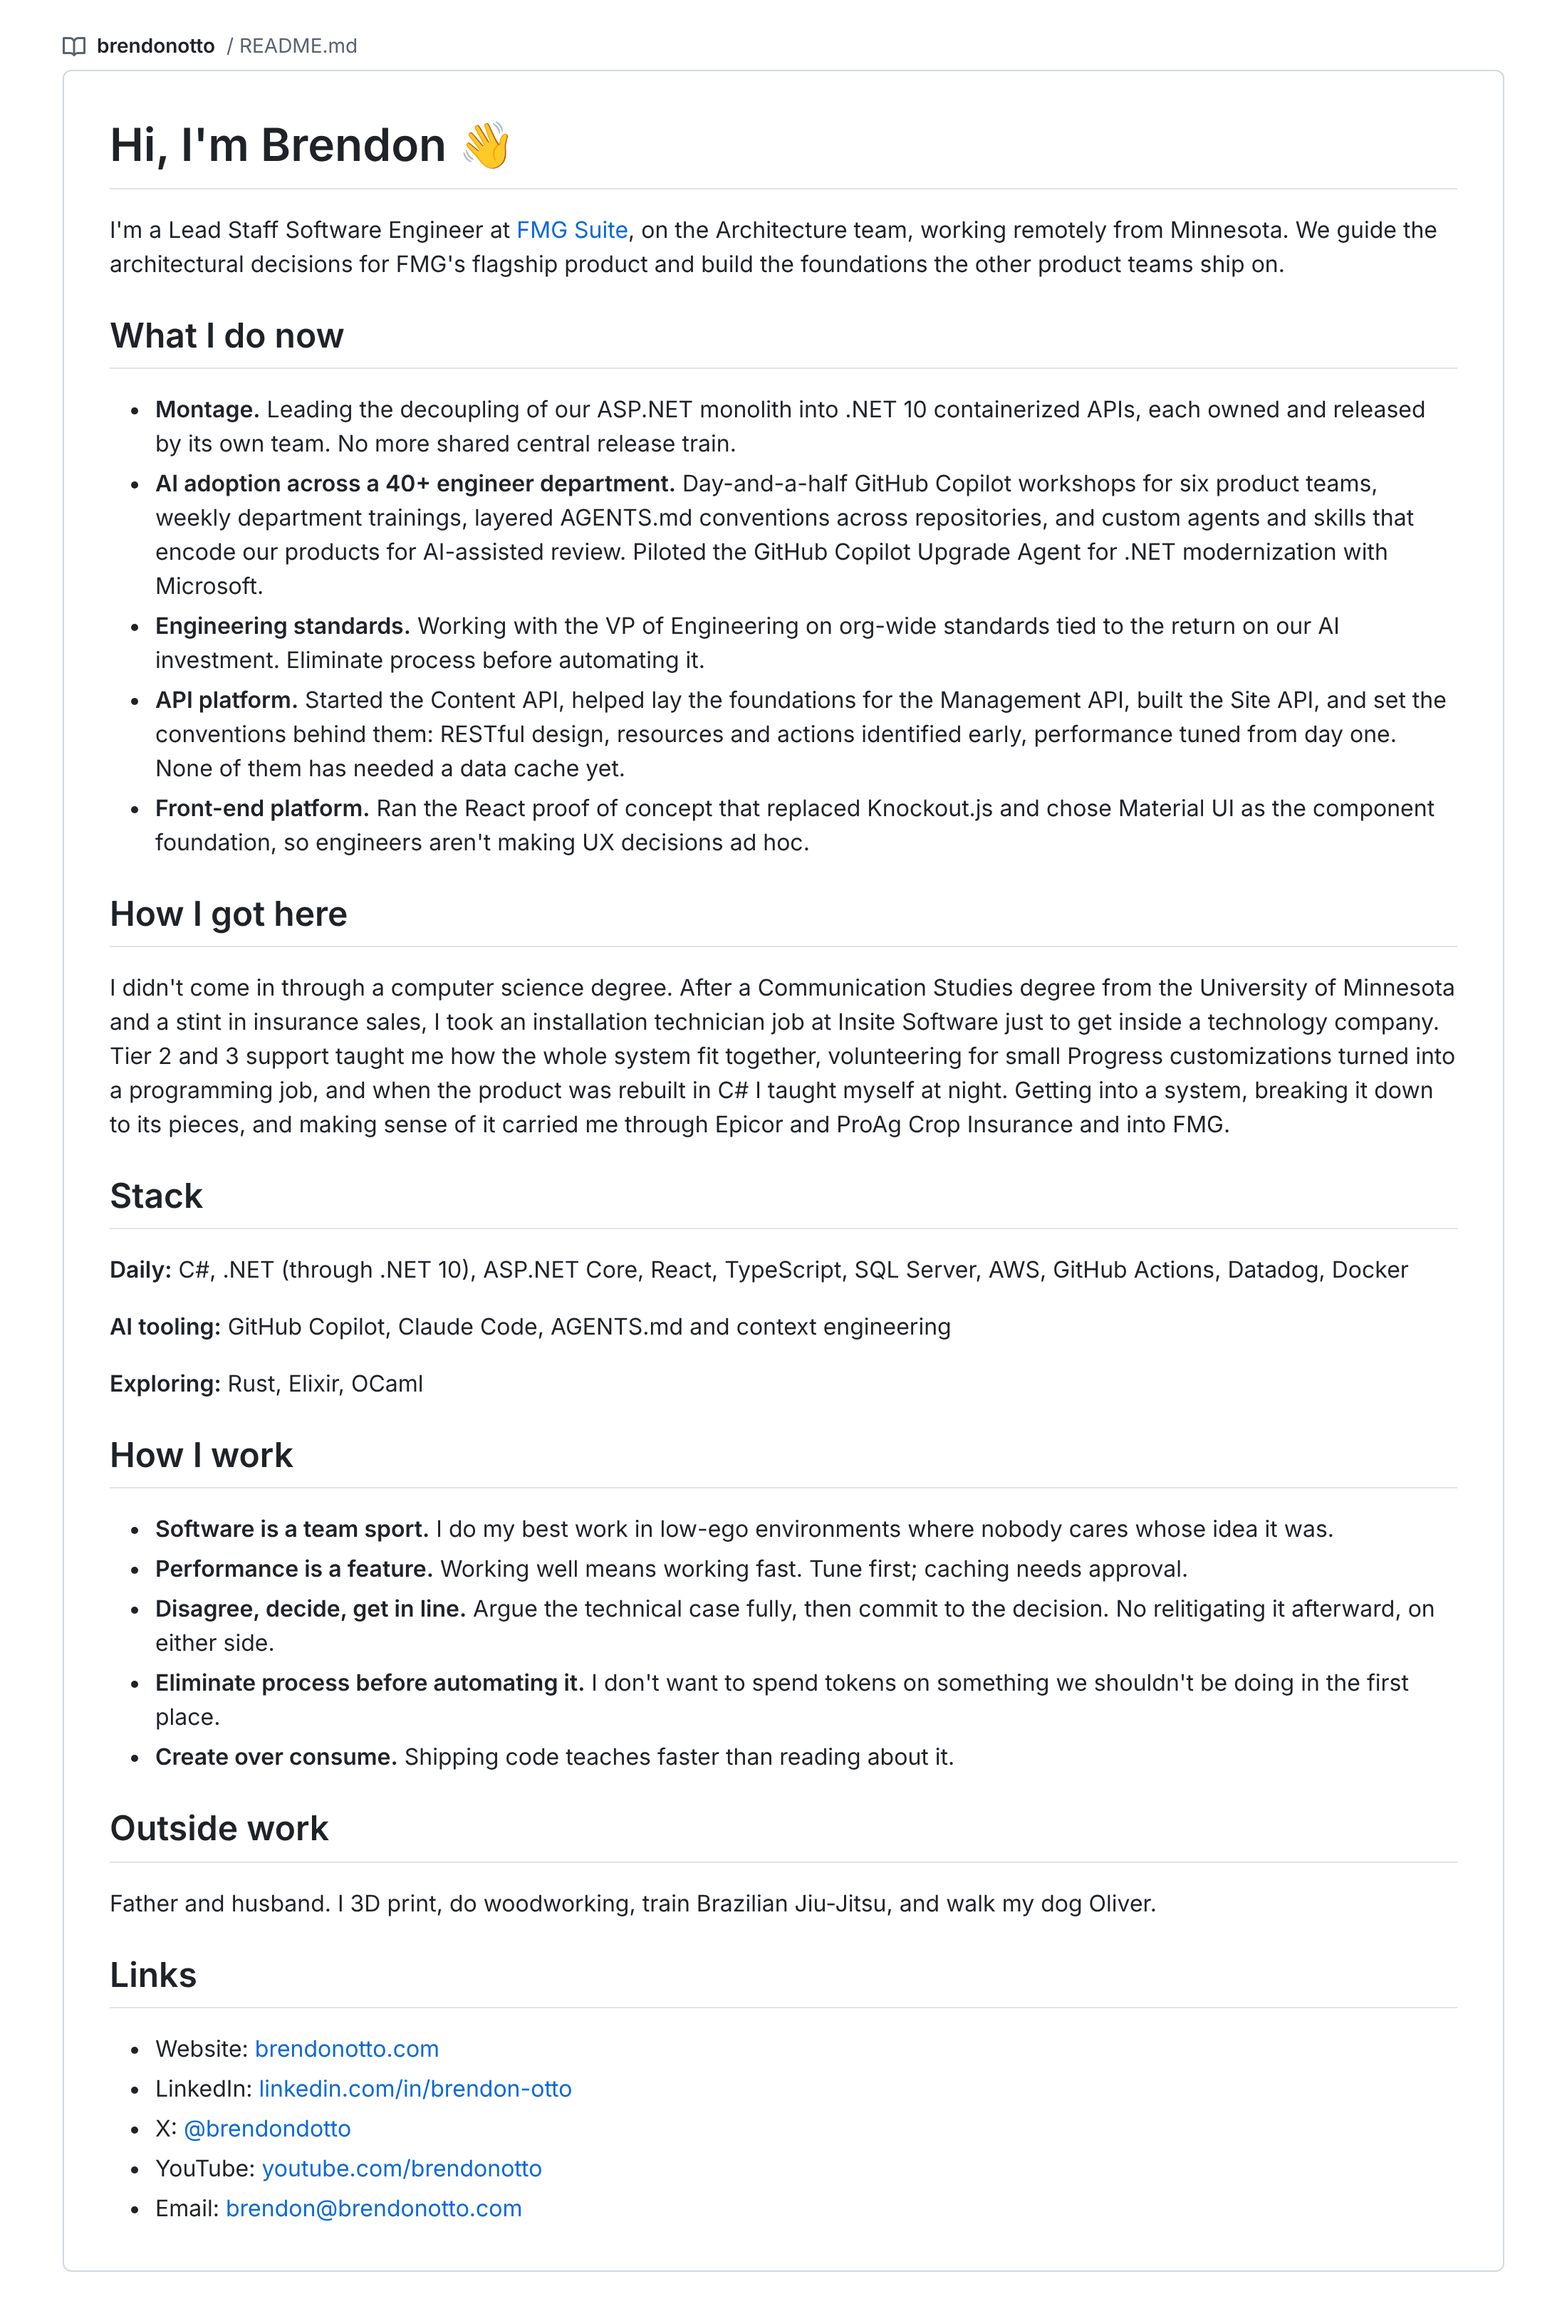
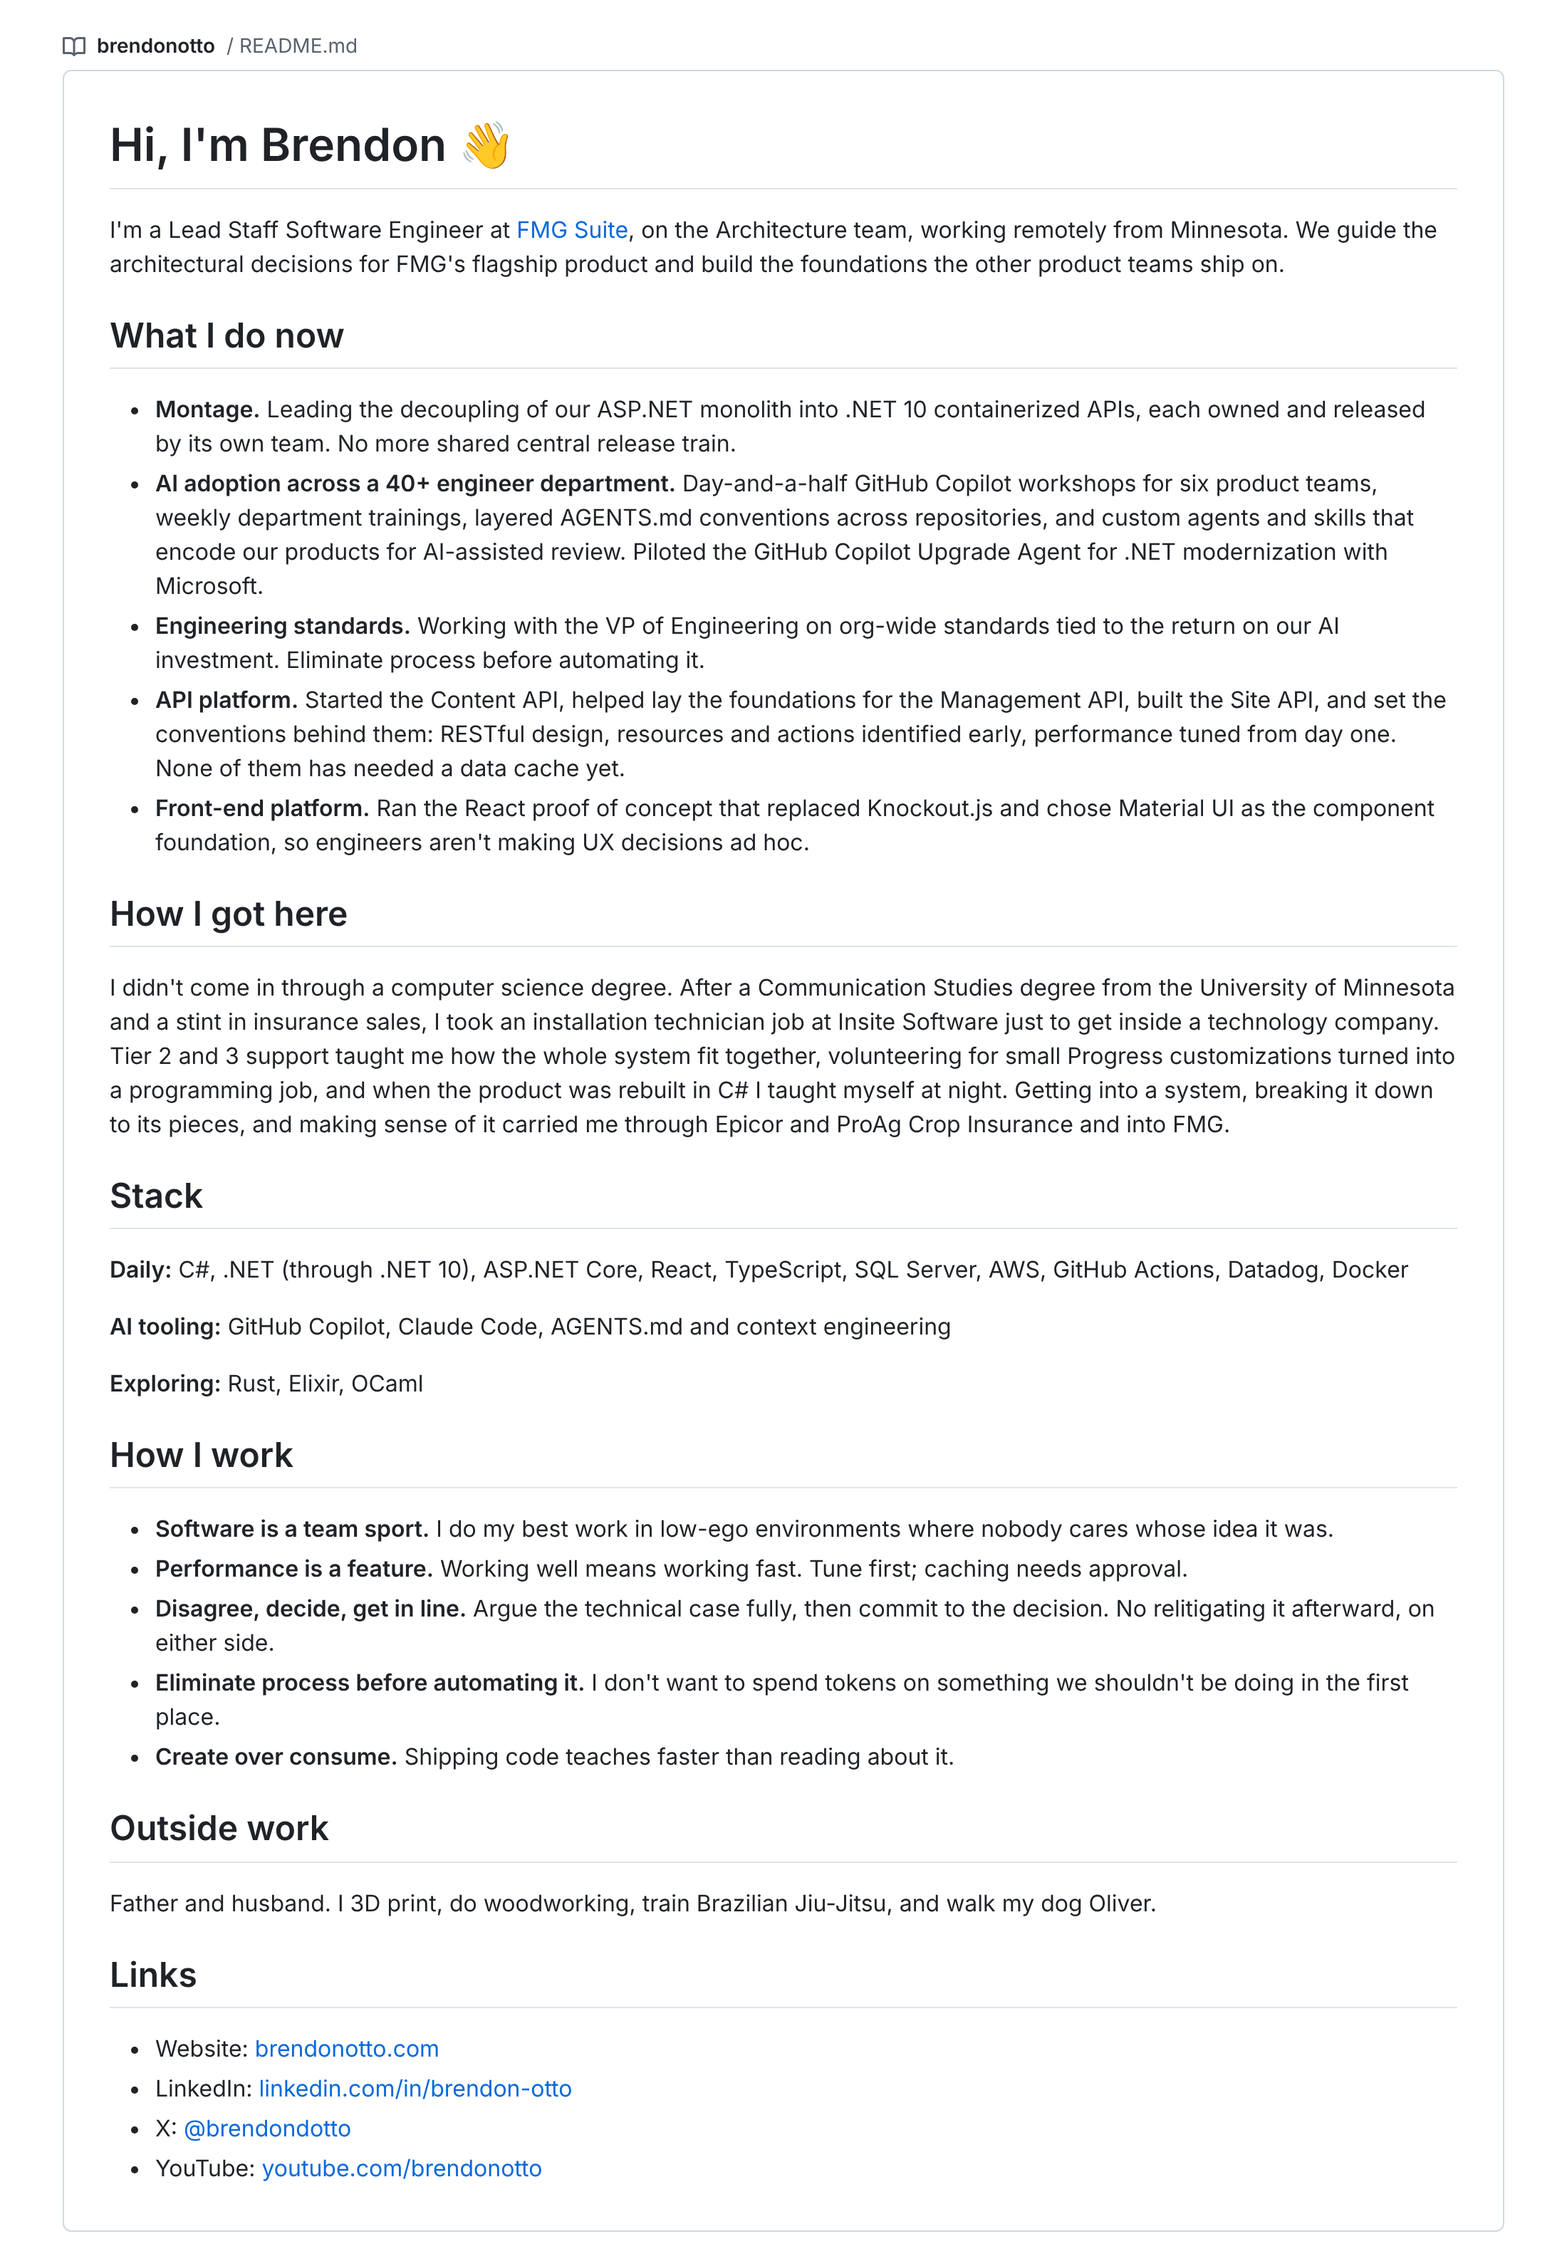
Drop email from the profile README links
Leave LinkedIn and X as the contact routes to avoid spam and newsletter
sign-ups. Update the README output guide and re-render the previews.

Claude-Session: https://claude.ai/code/session_01SLi5quowUpw19F6txyEKXM

Changed region(s): [[0.0618, 0.0622, 0.9273, 0.9645]]

diff --git a/drafts/github-profile/preview-dark.html b/drafts/github-profile/preview-dark.html
@@ -1268,6 +1268,5 @@ body{margin:0;background:#0d1117;font-family:-apple-system,BlinkMacSystemFont,"S
 <li>LinkedIn: <a href="https://www.linkedin.com/in/brendon-otto/">linkedin.com/in/brendon-otto</a></li>
 <li>X: <a href="https://x.com/brendondotto">@brendondotto</a></li>
 <li>YouTube: <a href="https://www.youtube.com/brendonotto">youtube.com/brendonotto</a></li>
-<li>Email: <a href="mailto:brendon@brendonotto.com">brendon@brendonotto.com</a></li>
 </ul>
 </article></div></div></body></html>

diff --git a/drafts/github-profile/preview-light.html b/drafts/github-profile/preview-light.html
@@ -1268,6 +1268,5 @@ body{margin:0;background:#ffffff;font-family:-apple-system,BlinkMacSystemFont,"S
 <li>LinkedIn: <a href="https://www.linkedin.com/in/brendon-otto/">linkedin.com/in/brendon-otto</a></li>
 <li>X: <a href="https://x.com/brendondotto">@brendondotto</a></li>
 <li>YouTube: <a href="https://www.youtube.com/brendonotto">youtube.com/brendonotto</a></li>
-<li>Email: <a href="mailto:brendon@brendonotto.com">brendon@brendonotto.com</a></li>
 </ul>
 </article></div></div></body></html>

diff --git a/.claude/skills/about-brendon/references/outputs/github-readme.md b/.claude/skills/about-brendon/references/outputs/github-readme.md
@@ -10,7 +10,7 @@ The README in the `brendonotto/brendonotto` repository renders at the top of git
 4. **Stack.** A short line or compact list: daily stack, then "exploring" (Rust, Elixir, OCaml). Skip legacy tech he no longer wants to work in. Shields.io badges are optional; if used, keep to one row and only for the daily stack.
 5. **How I work.** Three or four of his principles as short bullets. Use his wording.
 6. **Outside work.** One line: hobbies, BJJ, Oliver.
-7. **Links.** Website, LinkedIn, X, YouTube, email. Make the website the first link.
+7. **Links.** Website, LinkedIn, X, YouTube. Make the website the first link. No email address on the README; it draws spam and newsletter sign-ups. LinkedIn and X are the contact routes.
 
 ## Things to avoid
 

diff --git a/drafts/github-profile/README.md b/drafts/github-profile/README.md
@@ -40,4 +40,3 @@ Father and husband. I 3D print, do woodworking, train Brazilian Jiu-Jitsu, and w
 - LinkedIn: [linkedin.com/in/brendon-otto](https://www.linkedin.com/in/brendon-otto/)
 - X: [@brendondotto](https://x.com/brendondotto)
 - YouTube: [youtube.com/brendonotto](https://www.youtube.com/brendonotto)
-- Email: [brendon@brendonotto.com](mailto:brendon@brendonotto.com)
